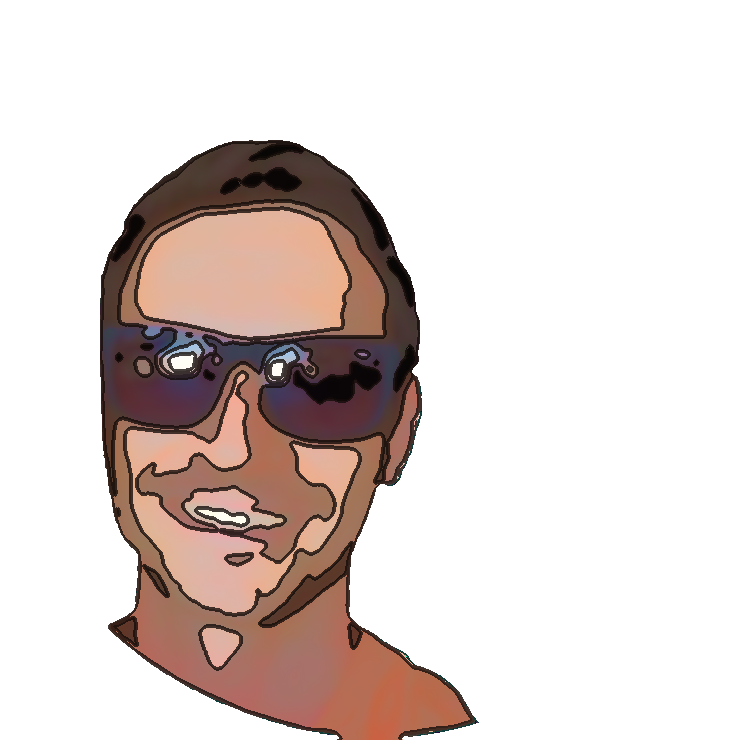
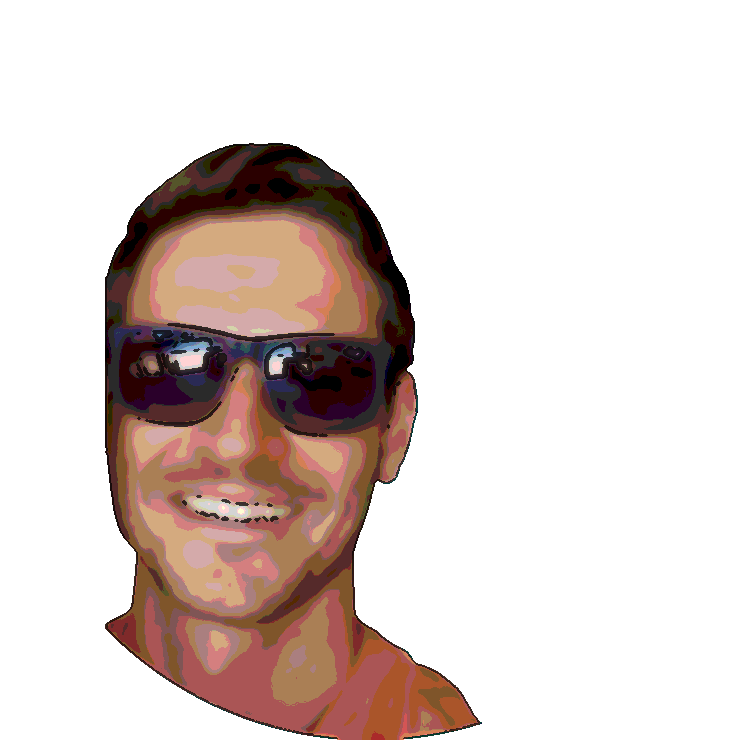
Kafa Topu: kafalar v1 karikatur haline geri dondu (v2 begenilmedi)

Changed region(s): [[0.1243, 0.1865, 0.6527, 1.0]]

diff --git a/PROGRESS.md b/PROGRESS.md
@@ -198,3 +198,6 @@ Head Soccer tarzı 2D fizik futbolu; `kafatopu/` altında izole modül, `/kafato
 - Kullanıcı v1 filtresini "hâlâ foto gibi" buldu → v2 işlem hattı (`scripts/kafatopu-karikatur2.mjs`): (1) karikatür oran deformasyonu — kafatası bulge +%20, çene pinch -%14 (ters eşleme + bilinear, odak parametreli), (2) cel-shading — ton korunur, ışık 5 banda kuantalanır (kanal-bazlı posterize ton kaydırıp leke yapıyordu, çözüm bu), (3) kalın koyu kontur + silüet sınırına garantili dış çizgi.
 - Kesit uygulamalarının bıraktığı yarı saydam gürültü halkası: maske yalnız alpha>=250 + 2px erozyon; şeffaf piksellerin RGB artığı sıfırlanır. (Not: Read önizlemesi alpha birleştirmiyor — "saçak" alarmı iki kez yanlış çıktı, piksel ölçümüyle doğrulandı.)
 - 4 kafa orijinallerden yeniden üretildi (ida/kafa2 git geçmişinden, emirhan kesikten; kafa3 ham fotoğrafı yok → v1 karikatüründen deforme edildi, ham gelirse yenilenir). Canlıda doğrulandı.
+
+## 2026-07-15 (13. oturum) — v2 karikatür geri alındı
+- Kullanıcı v2 sonucunu beğenmedi ("karikatürize edememişsin") → 4 kafa v1 haline (posterize+kontur, deformasyonsuz) geri döndürüldü (git checkout 3413466~1). v2 aracı scripts/te duruyor; ileride farklı ayarla denenebilir ya da gerçek çizim istenirse dış kaynak gerekir.
